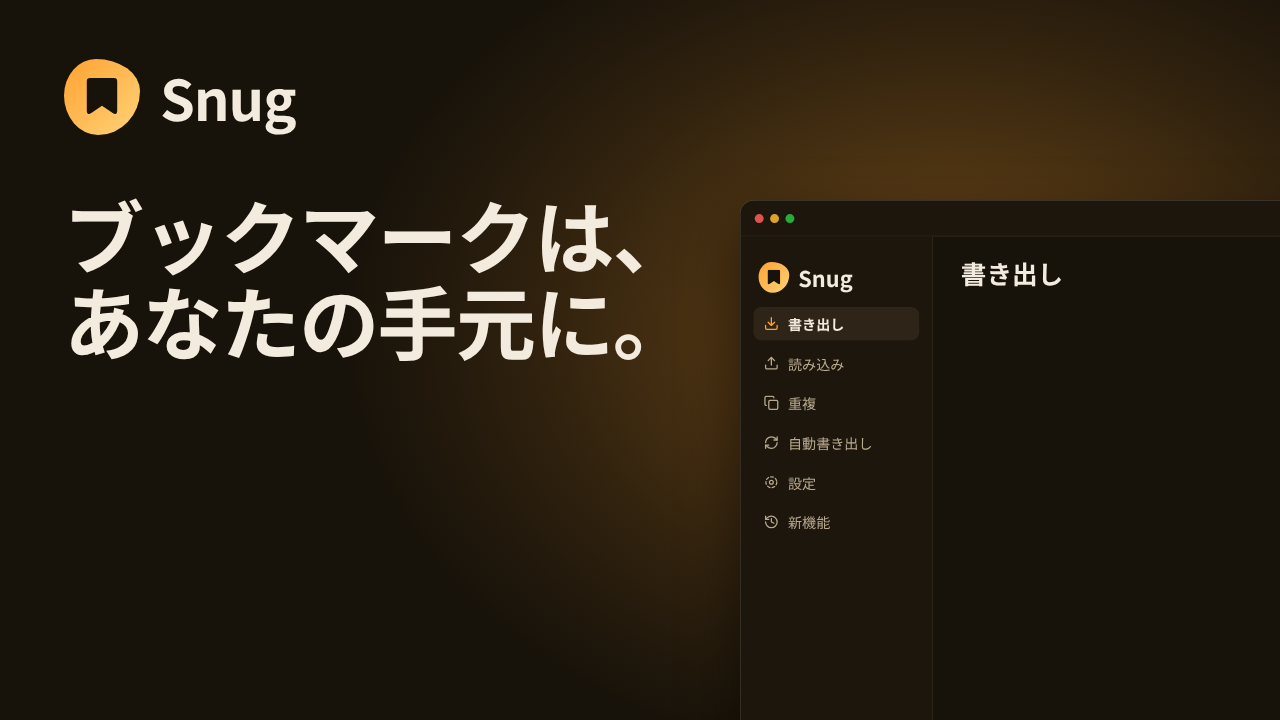
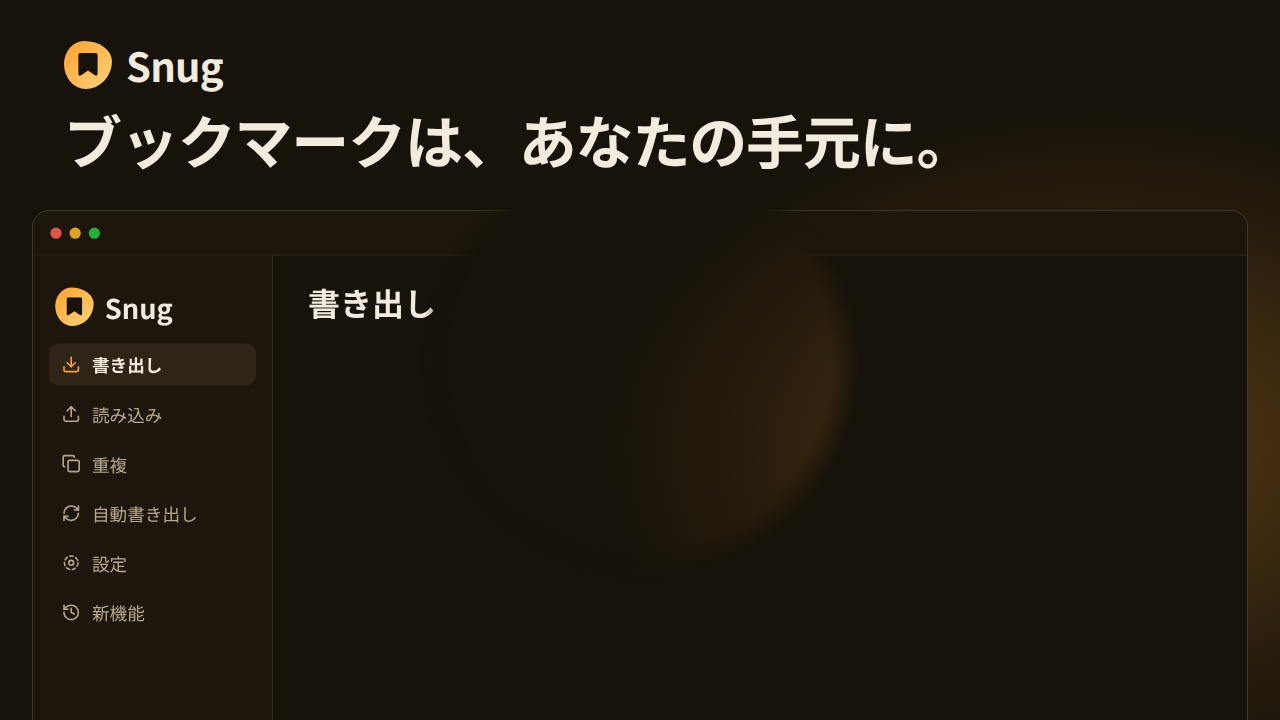
feat: ✨ landing video posters with a clear centre for the play button
- Added a LandingPoster still: wordmark and hook along the top, window masked around a centre circle
- Render script now outputs YouTube thumbnails and landing posters; bundle uses rspack
- Re-rendered the 10 landing posters; YouTube thumbnails unchanged

Refs: AO-1386

diff --git a/apps/video/src/thumbnail/Thumbnail.tsx b/apps/video/src/thumbnail/Thumbnail.tsx
@@ -119,3 +119,94 @@ export const Thumbnail = ({ locale }: SceneProps) => {
     </FontGate>
   )
 }
+
+const POSTER_HOOK_SIZE = 60
+const POSTER_CJK_HOOK_SIZE = 58
+const POSTER_WINDOW_SCALE = 0.8
+const POSTER_WINDOW_LEFT = 32
+const POSTER_WINDOW_TOP = 210
+const CLEAR_ZONE_RADIUS = 192
+const CLEAR_ZONE_FEATHER = 28
+const CLEAR_ZONE_MASK = `radial-gradient(circle at 50% ${THUMBNAIL_SIZE.height / 2 - POSTER_WINDOW_TOP}px, transparent ${CLEAR_ZONE_RADIUS}px, #000 ${CLEAR_ZONE_RADIUS + CLEAR_ZONE_FEATHER}px)`
+
+/**
+ * 1280x720 landing-page video poster. The centre circle (about 30% of the
+ * width) is kept free of text and art for the click-to-load play button: the
+ * wordmark and hook run along the top and the Snug window is masked around the
+ * clear zone.
+ */
+export const LandingPoster = ({ locale }: SceneProps) => {
+  const fonts = fontStackFor(locale)
+  return (
+    <FontGate locale={locale}>
+      <AbsoluteFill style={{ backgroundColor: theme.colors.ground }}>
+        <AbsoluteFill
+          style={{
+            background:
+              'radial-gradient(ellipse 620px 420px at 86% 62%, rgba(255,162,48,0.3), rgba(255,162,48,0.08) 55%, transparent 80%)',
+          }}
+        />
+        <div
+          style={{
+            position: 'absolute',
+            left: POSTER_WINDOW_LEFT,
+            top: POSTER_WINDOW_TOP,
+            width: THUMBNAIL_SIZE.width - POSTER_WINDOW_LEFT * 2,
+            height: THUMBNAIL_SIZE.height - POSTER_WINDOW_TOP,
+            overflow: 'hidden',
+            maskImage: CLEAR_ZONE_MASK,
+          }}
+        >
+          <div
+            style={{
+              transform: `scale(${POSTER_WINDOW_SCALE})`,
+              transformOrigin: 'top left',
+            }}
+          >
+            <AppWindow locale={locale} active="export" />
+          </div>
+        </div>
+        <div
+          style={{
+            position: 'absolute',
+            left: PADDING_X,
+            top: 36,
+            display: 'flex',
+            alignItems: 'center',
+            gap: 14,
+          }}
+        >
+          <BlobMark size={48} />
+          <span
+            style={{
+              fontFamily: fonts.display,
+              fontWeight: 700,
+              fontSize: 40,
+              color: theme.colors.text,
+              letterSpacing: '-0.02em',
+            }}
+          >
+            {WORDMARK_TEXT}
+          </span>
+        </div>
+        <div
+          style={{
+            position: 'absolute',
+            left: PADDING_X,
+            top: 108,
+            right: PADDING_X,
+            fontFamily: fonts.display,
+            fontWeight: 700,
+            fontSize: isCjk(locale) ? POSTER_CJK_HOOK_SIZE : POSTER_HOOK_SIZE,
+            lineHeight: 1.1,
+            letterSpacing: '-0.02em',
+            color: theme.colors.text,
+            whiteSpace: 'nowrap',
+          }}
+        >
+          {VIDEO_COPY[locale].hook}
+        </div>
+      </AbsoluteFill>
+    </FontGate>
+  )
+}

diff --git a/apps/video/scripts/render-thumbnails.ts b/apps/video/scripts/render-thumbnails.ts
@@ -16,49 +16,66 @@ const OUT_DIR = path.resolve(
   'youtube',
   'thumbnails',
 )
+const POSTER_OUT_DIR = path.resolve(
+  ROOT,
+  '..',
+  'site',
+  'src',
+  'assets',
+  'video-posters',
+)
+const TARGETS = [
+  { id: 'Thumbnail', outDir: OUT_DIR },
+  { id: 'LandingPoster', outDir: POSTER_OUT_DIR },
+] as const
 const MAX_BYTES = 2 * 1024 * 1024
 
 const main = async () => {
-  mkdirSync(OUT_DIR, { recursive: true })
+  for (const { outDir } of TARGETS) mkdirSync(outDir, { recursive: true })
   const browserExecutable = process.env.REMOTION_BROWSER_EXECUTABLE ?? null
 
   console.log('Bundling…')
   const serveUrl = await bundle({
     entryPoint: path.join(ROOT, 'src', 'index.ts'),
+    rspack: true,
   })
 
   const failures: string[] = []
-  for (const locale of LOCALES) {
-    const inputProps = { locale }
-    const composition = await selectComposition({
-      serveUrl,
-      id: 'Thumbnail',
-      inputProps,
-      browserExecutable,
-    })
-    if (
-      composition.width !== THUMBNAIL_SIZE.width ||
-      composition.height !== THUMBNAIL_SIZE.height
-    ) {
-      failures.push(
-        `${locale}: composition is ${composition.width}x${composition.height}`,
-      )
-      continue
-    }
-    const output = path.join(OUT_DIR, `${locale}.png`)
-    await renderStill({
-      composition,
-      serveUrl,
-      output,
-      inputProps,
-      browserExecutable,
-      imageFormat: 'png',
-    })
-    const bytes = statSync(output).size
-    if (bytes > MAX_BYTES) {
-      failures.push(`${locale}: ${bytes} bytes exceeds ${MAX_BYTES}`)
-    } else {
-      console.log(`${locale}: ok (${Math.round(bytes / 1024)} KB) -> ${output}`)
+  for (const { id, outDir } of TARGETS) {
+    for (const locale of LOCALES) {
+      const inputProps = { locale }
+      const composition = await selectComposition({
+        serveUrl,
+        id,
+        inputProps,
+        browserExecutable,
+      })
+      if (
+        composition.width !== THUMBNAIL_SIZE.width ||
+        composition.height !== THUMBNAIL_SIZE.height
+      ) {
+        failures.push(
+          `${id} ${locale}: composition is ${composition.width}x${composition.height}`,
+        )
+        continue
+      }
+      const output = path.join(outDir, `${locale}.png`)
+      await renderStill({
+        composition,
+        serveUrl,
+        output,
+        inputProps,
+        browserExecutable,
+        imageFormat: 'png',
+      })
+      const bytes = statSync(output).size
+      if (bytes > MAX_BYTES) {
+        failures.push(`${id} ${locale}: ${bytes} bytes exceeds ${MAX_BYTES}`)
+      } else {
+        console.log(
+          `${id} ${locale}: ok (${Math.round(bytes / 1024)} KB) -> ${output}`,
+        )
+      }
     }
   }
 

diff --git a/apps/video/src/Root.tsx b/apps/video/src/Root.tsx
@@ -13,7 +13,7 @@ import { HookScene } from './scenes/hook'
 import { ImportScene } from './scenes/import'
 import { LocalScene } from './scenes/local'
 import { DEFAULT_MUSIC, promoSchema, type SceneProps } from './schema'
-import { Thumbnail, THUMBNAIL_SIZE } from './thumbnail/Thumbnail'
+import { LandingPoster, Thumbnail, THUMBNAIL_SIZE } from './thumbnail/Thumbnail'
 import {
   FPS,
   HEIGHT,
@@ -89,6 +89,13 @@ export const RemotionRoot = () => (
     <Still
       id="Thumbnail"
       component={Thumbnail}
+      schema={promoSchema.pick({ locale: true })}
+      defaultProps={{ locale: DEFAULT_LOCALE }}
+      {...THUMBNAIL_SIZE}
+    />
+    <Still
+      id="LandingPoster"
+      component={LandingPoster}
       schema={promoSchema.pick({ locale: true })}
       defaultProps={{ locale: DEFAULT_LOCALE }}
       {...THUMBNAIL_SIZE}

diff --git a/apps/video/README.md b/apps/video/README.md
@@ -61,7 +61,10 @@ Renders the `Thumbnail` still (1280x720, `locale` prop, hook from `VIDEO_COPY`)
 for all 10 locales through `renderStill` into
 `docs/brand/youtube/thumbnails/<locale>.png`, failing if any is not 1280x720 or
 exceeds 2 MB. Text stays out of the bottom-right 20%, where YouTube overlays the
-duration badge. Set `REMOTION_BROWSER_EXECUTABLE` as in Setup if needed.
+duration badge. The same command also renders the `LandingPoster` still (centre
+circle kept clear for the play button) into
+`apps/site/src/assets/video-posters/<locale>.png`. Set
+`REMOTION_BROWSER_EXECUTABLE` as in Setup if needed.
 
 ## Layout
 
